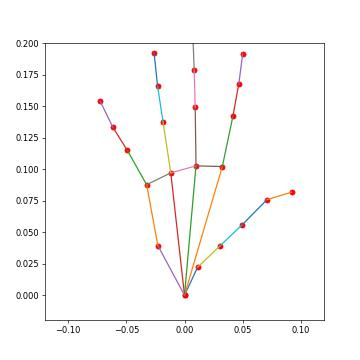
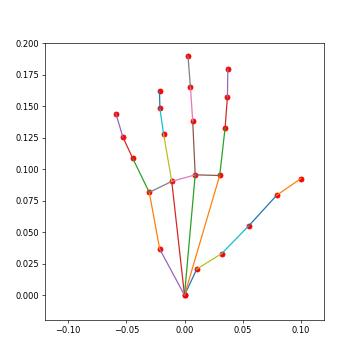
Checkpoint where I was fixing some errors in prior implementation

Changed region(s): [[0.3972, 0.1222, 0.7028, 0.7028], [0.5194, 0.4889, 0.8556, 0.7639], [0.275, 0.275, 0.3972, 0.4889]]

diff --git a/src/beavr/components/operators/xarm7_right.py b/src/beavr/components/operators/xarm7_right.py
@@ -206,16 +206,17 @@ class XArm7RightOperator(Operator):
     
     def quat_to_euler_rad(self, qx: float, qy: float, qz: float, qw: float) -> list[float, float, float]:
         """
-        Convert quaternion to Euler angles in degrees
+        Convert quaternion to Euler angles in radians
         
         Args:
             qx, qy, qz, qw: Quaternion components in qx,qy,qz,qw order
             
         Returns:
-            List of (roll, pitch, yaw) in degrees
+            List of (roll, pitch, yaw) in radians
         """
         rot = Rotation.from_quat([qx, qy, qz, qw])
-        euler_rad = rot.as_euler('xyz')  # Get Euler angles in radians
+        # Use uppercase 'XYZ' for extrinsic rotations around fixed axes
+        euler_rad = rot.as_euler('XYZ')  # Get Euler angles in radians
         return euler_rad
 
     def _get_resolution_scale_mode(self):
@@ -316,8 +317,8 @@ class XArm7RightOperator(Operator):
         H_HT_HH = copy(self.hand_moving_H)
         H_RI_RH = copy(self.robot_init_H)
 
-        H_R_V = np.array([[ 0, 0,  1,   0],
-                          [ 0,  -1, 0,  0],
+        H_R_V = np.array([[ 0,  0,  1,  0],
+                          [ 0, -1,  0,  0],
                           [ 1,  0,  0,  0],
                           [ 0,  0,  0,  1]])
 

diff --git a/src/beavr/interfaces/xarm7_robot.py b/src/beavr/interfaces/xarm7_robot.py
@@ -54,10 +54,9 @@ class XArm7Robot(RobotWrapper):
     @property
     def recorder_functions(self):
         return {
-            'joint_states': self.get_joint_state_from_operator,
+            'joint_states': self.get_robot_actual_joint_position,
             'operator_cartesian_states': self.get_cartesian_state_from_operator,
             'xarm_cartesian_states': self.get_robot_actual_cartesian_position,
-            'xarm_joint_states': self.get_robot_actual_joint_position,
             'commanded_cartesian_state': self.get_cartesian_commanded_position
         }
 
@@ -210,12 +209,6 @@ class XArm7Robot(RobotWrapper):
                 if self._is_recording_enabled:
                     self._latest_cartesian_coords = recv_coords
                     self._latest_cartesian_state_timestamp = time.time()
-            
-            # Joint state handling - only cache if recording is enabled
-            # joint_state = self._joint_state_subscriber.recv_keypoints(zmq.NOBLOCK)
-            # if joint_state is not None and self._is_recording_enabled:
-            #     self._latest_joint_state = joint_state
-            #     self._latest_joint_state_timestamp = time.time()
             
             if self.check_reset():
                 self.send_robot_pose()

diff --git a/src/beavr/components/initializers.py b/src/beavr/components/initializers.py
@@ -9,6 +9,7 @@ from .sensors import *
 from multiprocessing import Process
 from beavr.constants import *
 from beavr.utils.registry import GlobalRegistry
+import time
 
 
 class ProcessInstantiator(ABC):
@@ -169,16 +170,17 @@ class TeleOperator(ProcessInstantiator):
     
     def _init_robot_interface(self):
         for robot_config in self.configs.robot.robots:
+            # Don't instantiate here, only in the process
             robot_name = robot_config['_target_'].split('.')[-1].lower()
-            robot = hydra.utils.instantiate(robot_config)
-            GlobalRegistry.register(robot_name, robot)
             
-            self.processes.append(Process(
+            # Create the process first
+            process = Process(
                 target = self._start_component,
                 args = (robot_config, )
-            ))
+            )
+            self.processes.append(process)
 
-    
+
 # Data Collector Class
 class Collector(ProcessInstantiator):
     """

diff --git a/src/beavr/components/detector/keypoint_transform.py b/src/beavr/components/detector/keypoint_transform.py
@@ -55,7 +55,7 @@ class TransformHandPositionCoords(Component):
 
         palm_normal = normalize_vector(np.cross(index_knuckle_coord, pinky_knuckle_coord))   # Unity space - Y
         palm_direction = normalize_vector(index_knuckle_coord + pinky_knuckle_coord)         # Unity space - Z
-        cross_product = normalize_vector(index_knuckle_coord - pinky_knuckle_coord)              # Unity space - X
+        cross_product = normalize_vector(index_knuckle_coord - pinky_knuckle_coord)          # Unity space - X
         
         return [origin_coord, cross_product, palm_normal, palm_direction]
 

diff --git a/src/beavr/interfaces/leap_robot.py b/src/beavr/interfaces/leap_robot.py
@@ -12,7 +12,7 @@ import zmq
 from beavr.utils.registry import GlobalRegistry
 
 class LeapHandRobot(RobotWrapper):
-    def __init__(self, host, joint_angle_subscribe_port, joint_angle_publish_port, reset_subscribe_port, simulation_mode=True):
+    def __init__(self, host, joint_angle_subscribe_port, joint_angle_publish_port, reset_subscribe_port, simulation_mode=False):
         if simulation_mode:
             self._controller = None  # Skip hardware initialization in sim mode
         else:

diff --git a/src/beavr/controllers/xarm7_control.py b/src/beavr/controllers/xarm7_control.py
@@ -16,7 +16,7 @@ class RobotControlMode(Enum):
 
 # Wrapper for XArm
 class Robot(XArmAPI):
-    def __init__(self, ip="192.168.1.197", is_radian=True, simulation_mode=True):
+    def __init__(self, ip="192.168.1.197", is_radian=True, simulation_mode=False):
         super(Robot, self).__init__(
             port=ip, is_radian=is_radian, is_tool_coord=False, enable_report=True, report_type="rich")
         if simulation_mode and not self.is_simulation_robot:
